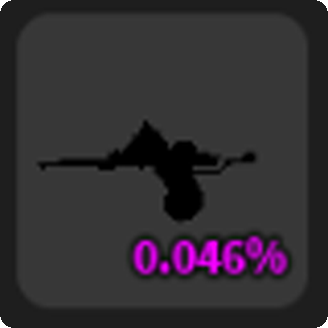
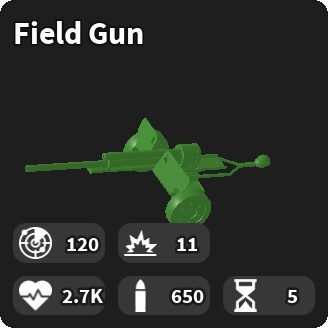
add field gun

diff --git a/database.js b/database.js
@@ -595,6 +595,13 @@ const itemDatabase = [
     rarity: "Epic",
     rate: 0.001211,
     image: "images/items/field_gun.png",
+    stats: {
+      health: 2700,
+      damage: 120,
+      aoe: 11,
+      reload_time: 5,
+      range: 120,
+    },
   },
   {
     name: "Flamethrower",
